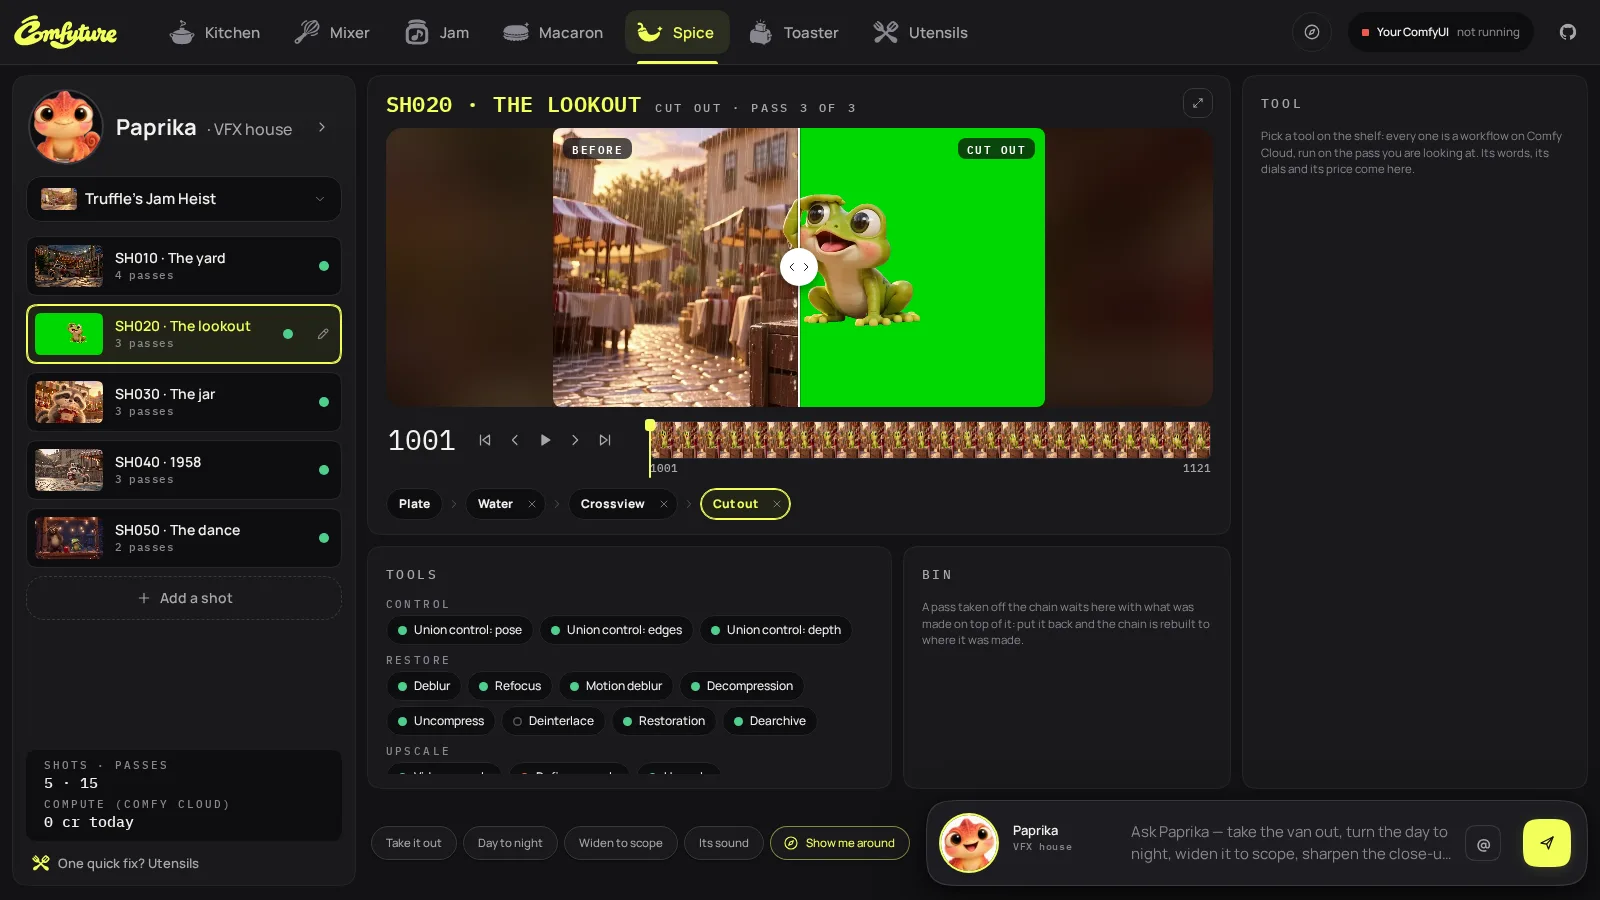
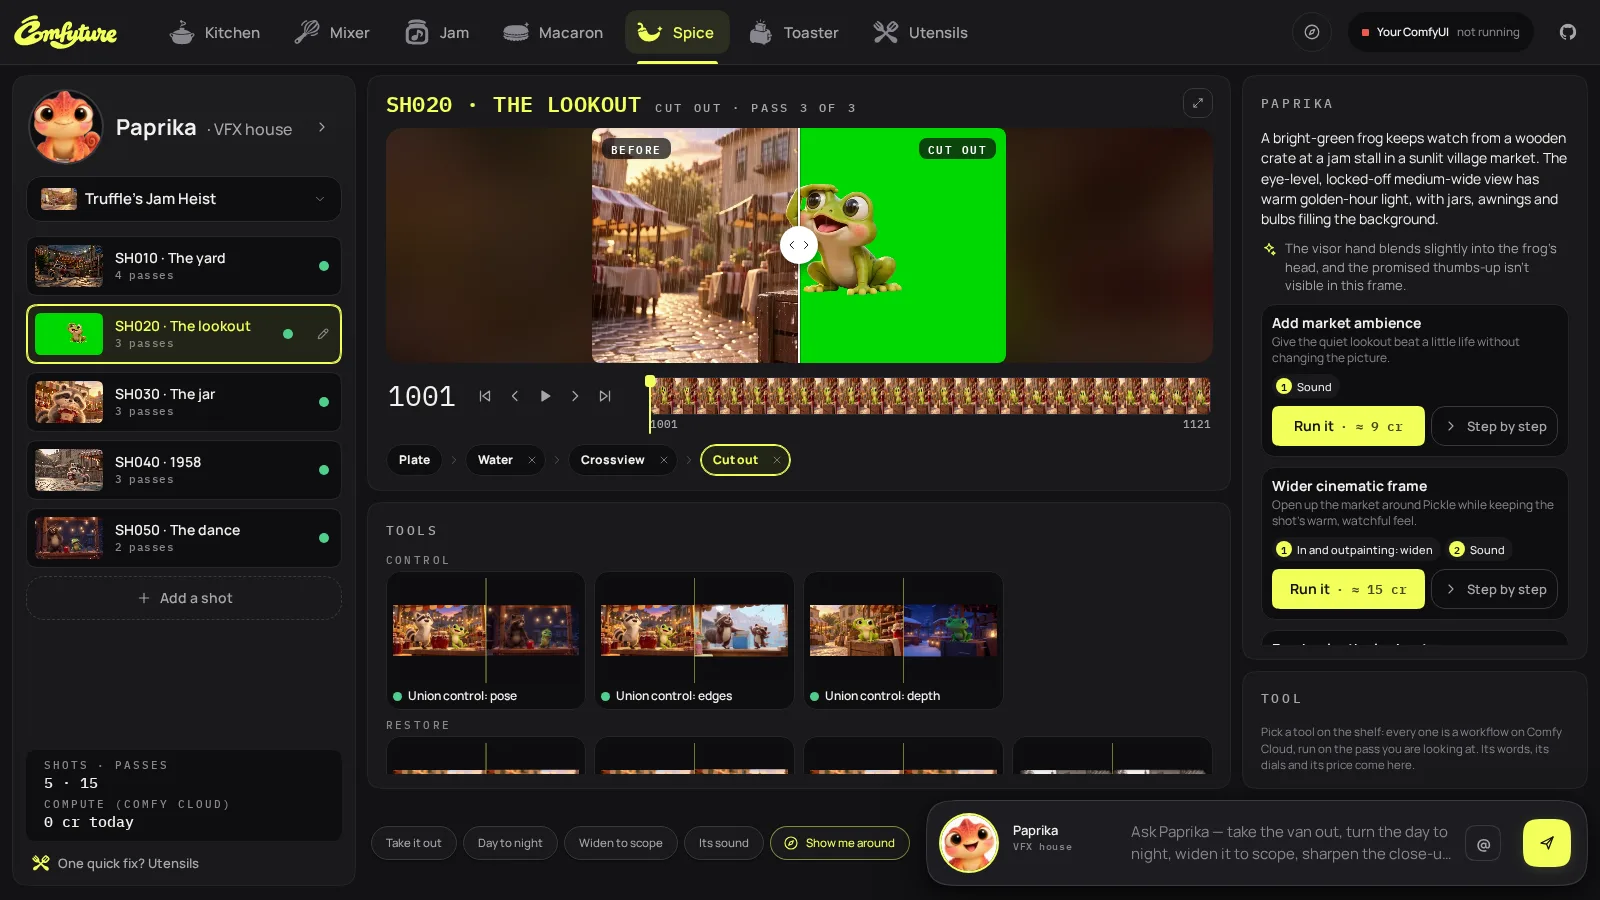
Beat 5's three Spice keyframes are captured again on the new layout (the tool cards with a real run's before and after, Paprika's read with its priced chains), and D14 says what came with it: the cards' 119 credits, Paprika's read counted in judge mode, the region box

diff --git a/docs/competition/storyboard.html b/docs/competition/storyboard.html
@@ -328,8 +328,8 @@
     <div class="body">
       <div class="frames">
         <figure class="wide">
-          <button class="shot" data-full="keyframes/k10-spice-yard.webp"><img src="keyframes/k10-spice-yard.webp" alt="Spice's SH010, the yard: the wipe between the market by day and its Day to night pass, the chain of passes under the viewer and the tools by family"><span class="ost">Spice · plate → inpaint → day to night → outpaint → sound</span></button>
-          <figcaption>SH010 of the shipped <em>Truffle's Jam Heist</em>: Day to night wiped against the clip it ran on, the chain of four passes under it, the tools on the shelf with a dot for what a real run showed.</figcaption>
+          <button class="shot" data-full="keyframes/k10-spice-yard.webp"><img src="keyframes/k10-spice-yard.webp" alt="Spice's SH010, the yard: the wipe between the market by day and its Day to night pass, the chain of passes under the viewer, the tool cards and Paprika's read with its chains"><span class="ost">Spice · plate → inpaint → day to night → outpaint → sound</span></button>
+          <figcaption>SH010 of the shipped <em>Truffle's Jam Heist</em>: Day to night wiped against the clip it ran on, the chain of four passes under it, the tools as cards with what a real run was given and what it made, and Paprika's read of the shot with two priced chains.</figcaption>
         </figure>
         <figure>
           <button class="shot" data-full="keyframes/k11-spice-1958.webp"><img src="keyframes/k11-spice-1958.webp" alt="Spice's SH040, 1958: Colorization wiped from grey to colour"><span class="ost">Colorization · an IC-LoRA of LTX-2.3</span></button>

diff --git a/docs/competition/README.md b/docs/competition/README.md
@@ -139,7 +139,7 @@ While at it, the rewrite can also drop `docs/brand/` (492 MB of design mockups t
 | D12 | Spice's Gen (your answer, 26 Oct, through the Spice session) | ✅ **In `main` (26 Oct, 900ddba)**, after a judge walk of a fresh install (every tour, judge mode, open weights, no key) and with the docs and the website following: A video IC-LoRA suite, every LTX 2.3 IC-LoRA Comfy Cloud offers, one cheap real run each, about 289 of the 300 credits you allowed: 39 tools, **26 did what their card says** (each with a note), 4 failed, 8 not offered because they need more than a clip, 1 untested. **Still yours: credits to retry the 4 failed tools, or leave them marked.** **Its source clip: State Property, your decision (26 Oct)**, name and media kept: *"they used for their example the Migos video with no issue, so state property is just a meme not a trademark thing, and we're using our own characters"* Since D14 the IC-LoRAs are tools of the rebuilt Spice, run on our own shots. |
 | D11 | Shot's presets and samples | The 28 preset previews in Kitchen's Shot room were rolled from eight stock-looking sample photos, two of them the raincoat woman and the rooftop man you turned down for Spice. **Redraw the eight samples with our cast (Codex GPT Image, free) and roll the 28 previews again (about 670 credits, your yes)**, or leave them |
 | D13 | VOID through Comfy's template runner | Classic Spice's Paint is gone (D14), but Utensils' VFX tools still offer VOID, and Spice's Wan VACE and frame interpolation go through the same template runner (`run_template`). The Spice session saw that route fail on Cloud: *"expected BOOLEAN, got 672"*, then *"expected INT, got string"*. The addresses we send are right by the cached schema (672 goes to `167.latent_width`), so the runner puts values one or two slots off. Obscura on the same route gave junk (stitched frames, a black door); Gen, on the branch `spice-gen`, runs those models through its own graph instead. JUDGES.md does not send judges to Paint. **Once Gen is merged, route Paint's object removal through Gen's graph (free to write, one run of about 19 credits to check it, your yes)**, or leave Paint as it is, marked as paid |
-| D14 | Spice rebuilt as one AI suite (your ask, 26 Oct, through the Spice session) | ✅ **In `main` (26 Oct, a3b3266)**, after a judge walk of a fresh install (every tour, judge mode, open weights, no key; the example byte-identical after opens, tours and refused runs) and one fix (eight tools carried the survey clip's words). A scenario of shots, *Truffle's Jam Heist*: five plates LTX-2.5 rolled from first frames drawn from the cast's sheets, fifteen passes chained on them, about 580 credits in all, failed tries included. On record and not hidden: the road sign in SH010 stays (Inpaint drew it back three times), Wan VACE's one real run gave the scene back nearly unchanged (red dot), frame interpolation is untested. **Still yours: credits for more runs, if you want those three tried again** |
+| D14 | Spice rebuilt as one AI suite (your ask, 26 Oct, through the Spice session) | ✅ **In `main` (26 Oct, a3b3266)**, after a judge walk of a fresh install (every tour, judge mode, open weights, no key; the example byte-identical after opens, tours and refused runs) and one fix (eight tools carried the survey clip's words). A scenario of shots, *Truffle's Jam Heist*: five plates LTX-2.5 rolled from first frames drawn from the cast's sheets, fifteen passes chained on them, about 580 credits in all, failed tries included. On record and not hidden: the road sign in SH010 stays (Inpaint drew it back three times), Wan VACE's one real run gave the scene back nearly unchanged (red dot), frame interpolation is untested. Since f905421 (26 Oct, evening, walked the same way): the tools are cards, each with a frame a real run was given and the frame it made (34 pictures, 119 credits of draft runs); Paprika reads a shot (one frame and its words, `POST /api/spice/read`, counted in judge mode's words) and proposes two or three priced chains, which run only after a yes; the example ships her read of all five shots, so a judge sees it with no key; Inpaint's region is a box drawn on the viewer. **Still yours: credits for more runs, if you want those three tried again** |
 
 **The night of 25 to 26 October** (a supervisor session judged the app from a fresh `--depth 1` clone, no key, an empty data folder, at
 1280 x 720 and 1366 x 768, and fixed what a judge would hit; each fix is its own commit):

diff --git a/docs/competition/VIDEO.md b/docs/competition/VIDEO.md
@@ -53,7 +53,7 @@ folder, no key and a dead render address: no credit was spent. Frames of our cas
 | `k07-film-ketkout` | 3 | Real output: take 1D. |
 | `k08-toaster-build` | 4 | **Staged**: Crumpet's answer was written by hand (no model called), in a new draft beside the example; the app built the scene from it as from a real answer. With no key, *Toast it* reads "GPU time". |
 | `k09-toaster-render`, `k23-toaster-clay-to-render` | 4 | Toaster's shipped example *Crumpet's workbench*: its Render page, and its clay frame beside the finished still. The stills were drawn with GPT Image (free, through Codex) and the page labels them so: for the open-weights category, re-toast them with Qwen Image 2.1 (a few credits, **your yes**) or keep the labels out of frame. **No turnaround or 3D model exists yet**, and the 3D part is **on hold since 25 October**: the owner said it is wrong and will explain. Until then beat 4 ends on the render, and the voice-over drops "then into a real 3D model". |
-| `k10-spice-yard`, `k11-spice-1958`, `k22-spice-cutout` | 5, 10 | Spice's shipped *Truffle's Jam Heist* on a fresh install, captured 26 October after the rebuild: SH010's Day to night wipe with its chain and the tool shelf, SH040's Colorization wipe, SH020 cut out on green by SAM3. Every pass shown is a real run. |
+| `k10-spice-yard`, `k11-spice-1958`, `k22-spice-cutout` | 5, 10 | Spice's shipped *Truffle's Jam Heist* on a fresh install, captured 26 October after the rebuild: SH010's Day to night wipe with its chain, the tool cards (a real run's before and after on each) and Paprika's read with its priced chains; SH040's Colorization wipe; SH020 cut out on green by SAM3. Every pass shown is a real run. Re-captured 26 October at 21:00 on the layout of f905421. |
 | `k12-jam-track`, `k13-jam-band` | 6 | *Moonlit Oolong Walk*, Jam's shipped example (our ACE-Step song, Taro the otter), on a fresh install: the track and the band. The Toc Toc and Hotel Lobby showcases, which played commercial recordings, were retired on 25 October (D1): Jam ships only our three. |
 | `k14-jam-otter` | 6 | Real output: the otter singing *Moonlit Oolong Walk* (lip-sync, LTX-2.5). |
 | `k15-mixer-shelf` | 7 | **Depends on D1**: the shelf shows song-titled trends. |
